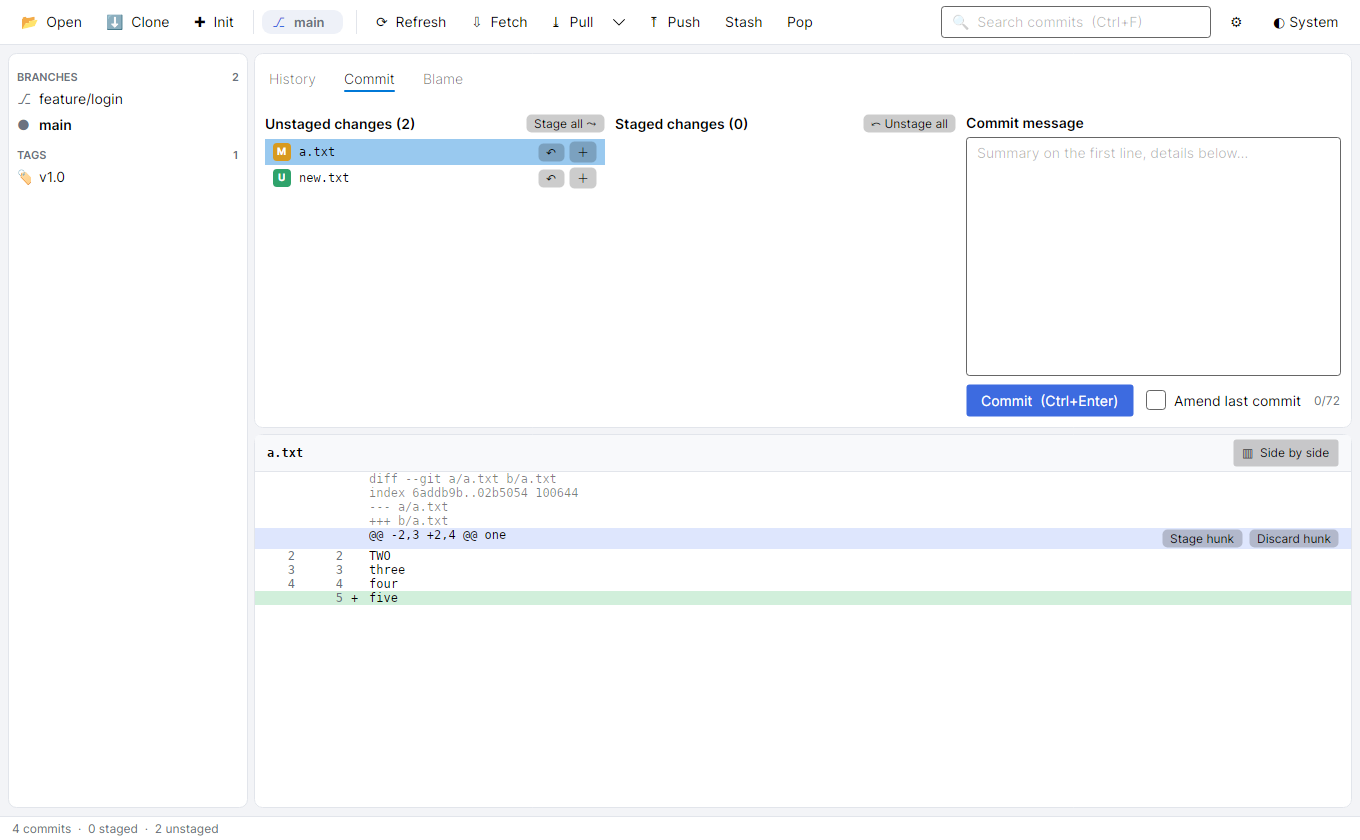
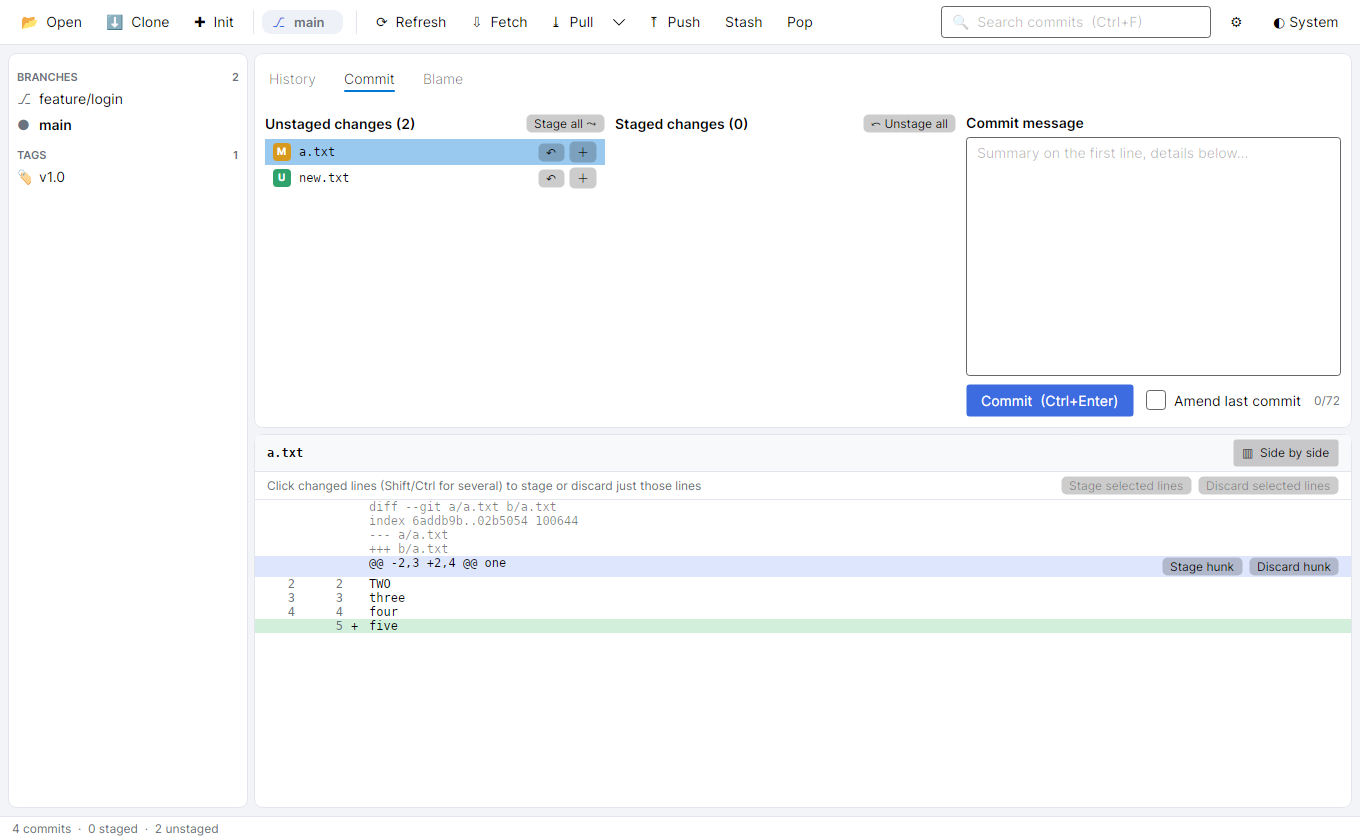
feat(app): stage, unstage and discard individual selected lines from the diff
Adds a selection strip above the unified diff. Fixes a missing change notification that kept the strip hidden; the UI test now asserts the control's real visibility. HOWTO and screenshots updated.

Changed region(s): [[0.1853, 0.5571, 1.0, 0.7738], [0.7721, 0.5571, 0.9882, 0.5881]]

diff --git a/src/GitCross.App/ViewModels/MainViewModel.cs b/src/GitCross.App/ViewModels/MainViewModel.cs
@@ -118,6 +118,7 @@ public partial class MainViewModel : ObservableObject
             OnPropertyChanged(nameof(IsUnifiedView));
             OnPropertyChanged(nameof(ShowSplit));
             OnPropertyChanged(nameof(ShowUnified));
+            OnPropertyChanged(nameof(LineActionsVisible));
             RebuildSplit();
             SaveSettings();
         }
@@ -638,6 +639,57 @@ public partial class MainViewModel : ObservableObject
         OnPropertyChanged(nameof(HasDiff));
         OnPropertyChanged(nameof(ShowSplit));
         OnPropertyChanged(nameof(ShowUnified));
+        OnPropertyChanged(nameof(LineActionsVisible));
+    }
+
+    private Dictionary<int, ISet<int>> _lineSelection = [];
+
+    public int SelectedChangeCount => _lineSelection.Values.Sum(v => v.Count);
+    public bool LineActionsVisible => HunkActionsEnabled && ShowUnified;
+    public string LineSelectionText => SelectedChangeCount == 0
+        ? "Click changed lines (Shift/Ctrl for several) to stage or discard just those lines"
+        : $"{SelectedChangeCount} changed line{(SelectedChangeCount == 1 ? "" : "s")} selected";
+    public string LinePrimaryText => _diffSource == DiffSource.Staged ? "Unstage selected lines" : "Stage selected lines";
+
+    /// <summary>Called by the view whenever the highlighted rows of the unified diff change.</summary>
+    public void SetDiffSelection(IEnumerable<DiffLine> selected)
+    {
+        var map = new Dictionary<int, ISet<int>>();
+        foreach (var l in selected.Where(l => l.Kind is DiffLineKind.Added or DiffLineKind.Removed && l.BodyIndex >= 0))
+        {
+            if (!map.TryGetValue(l.HunkIndex, out var set))
+            {
+                map[l.HunkIndex] = set = new HashSet<int>();
+            }
+
+            set.Add(l.BodyIndex);
+        }
+
+        _lineSelection = map;
+        OnPropertyChanged(nameof(SelectedChangeCount));
+        OnPropertyChanged(nameof(LineSelectionText));
+        LinePrimaryCommand.NotifyCanExecuteChanged();
+        LineDiscardCommand.NotifyCanExecuteChanged();
+    }
+
+    private bool HasLineSelection => SelectedChangeCount > 0;
+
+    [RelayCommand(CanExecute = nameof(HasLineSelection))]
+    private Task LinePrimaryAsync()
+    {
+        var sel = _lineSelection;
+        var unstage = _diffSource == DiffSource.Staged;
+        return HunkActionAsync(r => r.StageLinesAsync(_diffPath!, sel, unstage));
+    }
+
+    [RelayCommand(CanExecute = nameof(HasLineSelection))]
+    private async Task LineDiscardAsync()
+    {
+        var sel = _lineSelection;
+        if (await ConfirmAsync("Discard lines", $"Permanently discard {SelectedChangeCount} selected line(s) in {_diffPath}?"))
+        {
+            await HunkActionAsync(r => r.DiscardLinesAsync(_diffPath!, sel));
+        }
     }
 
     private void NotifyHunkState()
@@ -645,6 +697,8 @@ public partial class MainViewModel : ObservableObject
         OnPropertyChanged(nameof(HunkActionsEnabled));
         OnPropertyChanged(nameof(CanDiscardHunk));
         OnPropertyChanged(nameof(HunkPrimaryText));
+        OnPropertyChanged(nameof(LineActionsVisible));
+        OnPropertyChanged(nameof(LinePrimaryText));
     }
 
     [RelayCommand]

diff --git a/tests/GitCross.App.UiTests/WindowRenderTests.cs b/tests/GitCross.App.UiTests/WindowRenderTests.cs
@@ -318,11 +318,52 @@ public class WindowRenderTests
         vm.IsSplitView = true;
         await Settle();
         Assert.True(vm.ShowSplit);
+        Assert.False(w.FindControl<Control>("LineActionsBar")!.IsEffectivelyVisible, "line selection is unified-view only");
         Assert.NotEmpty(vm.SplitRows);
         Shot(w, "diff-split.png");
 
         // the choice is remembered across restarts
         Assert.True(new SettingsStore(settingsPath).Load().SplitDiff);
+    }
+
+    [AvaloniaFact]
+    public async Task Selected_lines_can_be_staged_individually()
+    {
+        var repo = NewRepo();
+        File.WriteAllText(Path.Combine(repo, "list.txt"), "a\nb\nc\nd\n");
+        Git(repo, "add ."); Git(repo, "commit -qm list");
+        File.WriteAllText(Path.Combine(repo, "list.txt"), "a\nb\nNEW1\nNEW2\nNEW3\nc\nd\n");
+
+        var vm = new MainViewModel(new SettingsStore(Path.Combine(repo, "..", "gxc-s-" + Guid.NewGuid() + ".json")));
+        var w = new MainWindow(vm);
+        w.Show();
+        await vm.OpenAsync(repo);
+        vm.SelectedItem = vm.Items[0];
+        await Settle();
+        vm.SelectedUnstaged = vm.Unstaged.Single(x => x.Path == "list.txt");
+        await Settle();
+        Assert.True(vm.LineActionsVisible);
+        Assert.True(w.FindControl<Control>("LineActionsBar")!.IsEffectivelyVisible, "the line-action strip must actually be shown");
+        Assert.False(vm.LinePrimaryCommand.CanExecute(null)); // nothing selected yet
+
+        // select through the real ListBox so the view wiring is exercised too
+        var list = w.FindControl<ListBox>("UnifiedDiffList")!;
+        list.SelectedItems!.Add(vm.Diff.Single(l => l.Text == "NEW2"));
+        await Settle();
+        Assert.Equal(1, vm.SelectedChangeCount);
+        Assert.Equal("1 changed line selected", vm.LineSelectionText);
+        Shot(w, "line-staging.png");
+
+        await vm.LinePrimaryCommand.ExecuteAsync(null);
+        await Settle();
+
+        var staged = Process.Start(new ProcessStartInfo("git", "show :list.txt") { WorkingDirectory = repo, RedirectStandardOutput = true })!;
+        var content = staged.StandardOutput.ReadToEnd().Replace("\r\n", "\n");
+        staged.WaitForExit();
+        Assert.Equal("a\nb\nNEW2\nc\nd\n", content);
+        Assert.Contains(vm.Staged, f => f.Path == "list.txt");
+        Assert.Contains(vm.Unstaged, f => f.Path == "list.txt");
+        Assert.Equal(2, vm.Diff.Count(l => l.Kind == Core.Diff.DiffLineKind.Added)); // NEW1 and NEW3 remain unstaged
     }
 
     private static string NewRepo()

diff --git a/src/GitCross.App/Views/MainWindow.axaml.cs b/src/GitCross.App/Views/MainWindow.axaml.cs
@@ -211,6 +211,14 @@ public partial class MainWindow : Window
         }
     }
 
+    private void OnDiffSelectionChanged(object? sender, SelectionChangedEventArgs e)
+    {
+        if (sender is ListBox lb)
+        {
+            _vm.SetDiffSelection(lb.SelectedItems?.OfType<Core.Diff.DiffLine>().ToList() ?? []);
+        }
+    }
+
     private static string? PathOf(object? sender) => (sender as Control)?.DataContext is Core.Models.FileChange f ? f.Path : null;
 
     private async void OnBlameCommitFile(object? s, RoutedEventArgs e)

diff --git a/docs/HOWTO.md b/docs/HOWTO.md
@@ -213,7 +213,22 @@ When a *tracked* file with changes is selected, every hunk header in the diff sh
 * **Stage hunk** (in the unstaged list) / **Unstage hunk** (in the staged list) – moves only that hunk to/from the index. The diff reloads showing the remaining hunks, and the file now appears in both lists if parts remain in each.
 * **Discard hunk** – permanently reverts just that hunk in the working tree (asks for confirmation).
 
-This lets you split unrelated edits in one file into separate, clean commits. (Hunk actions are not available for untracked files, because git has nothing to patch yet.)
+This lets you split unrelated edits in one file into separate, clean commits. (To go finer than a hunk, see *Staging individual lines* below.) (Hunk and line actions are not available for untracked files, because git has nothing to patch yet.)
+
+### Staging individual lines
+
+![Selecting a single changed line](images/line-staging.png)
+
+For the finest control, stage just some lines of a change:
+
+1. Select a tracked file with changes in *Unstaged changes* (or in *Staged changes* to unstage lines).
+2. In the diff, **click the changed lines** (green `+` or red `−`) you want. Clicking toggles a line; **Shift+click** selects a range and **Ctrl+click** adds or removes single lines. You can select lines from several hunks at once. Context (unchanged) lines can be selected but are ignored.
+3. A strip above the diff shows how many changed lines are selected. Click **Stage selected lines** (or **Unstage selected lines** when viewing a staged file) — only those lines move to the index. The diff reloads with what is left.
+4. **Discard selected lines** permanently reverts just those lines in your working file (asks for confirmation).
+
+Example: you added three lines `NEW1`, `NEW2`, `NEW3` but only want `NEW2` in this commit: select that one line and stage it; `NEW1` and `NEW3` stay in your working tree, still unstaged.
+
+Notes: line selection works in the **unified** view (the strip is hidden in side-by-side mode, which is read-only for selection), and not for untracked files.
 
 ### Committing
 
@@ -384,7 +399,7 @@ Branch deletion is always the *safe* kind (`-d`); git itself refuses to delete u
 
 * Interactive rebase (reordering/squashing/editing commits in a todo list) is not available; plain rebase onto a branch is. A rebase started elsewhere is recognized and can be continued or aborted.
 * Conflicts are resolved per file (take a side, or edit in your editor); there is no built-in three-way merge editor.
-* Staging works per file and per hunk; line-by-line selection inside a hunk is not available.
+* Staging works per file, per hunk and per selected line (unified view only; not for untracked files).
 * Diffs highlight changes but have no language syntax coloring yet. In side-by-side mode lines are paired by position, so when a block changes many lines the pairs can look offset.
 * The history view loads a limited number of commits (2000 by default; see Settings).
 * Submodules, plugins, shell integration and localization are not implemented yet (see `docs/PORTING.md`).

diff --git a/docs/PORTING.md b/docs/PORTING.md
@@ -11,7 +11,7 @@
 | Stage / unstage / commit / amend | Done | file-level only |
 | Fetch / Pull / Push | Done | no progress output, no credentials UI |
 | Stash push/pop/apply/drop + list | Done | sidebar section, context menu; untracked files in a stash are not shown |
-| Hunk staging (stage/unstage/discard hunk) | Done | line-level selection still Todo |
+| Hunk and line staging (stage/unstage/discard) | Done | line selection in unified view only |
 | Themes (system/light/dark) | Done | persisted |
 | Settings dialog | Done | git path, identity, pull mode, history size |
 | Clone / init | Done | clone dialog, init via folder picker |
